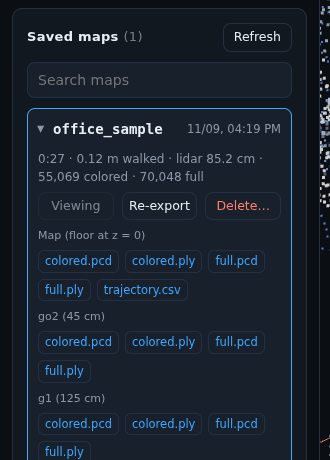
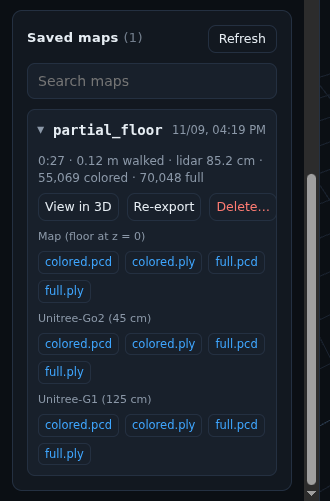
New web UI screenshots; fix the squashed saved-maps panel (#23)
* New web UI screenshots; keep the saved-maps panel from being squashed

The screenshots show the current UI (auto-stop countdown, the non-default
height warning, robot downloads). The saved-maps card had flex: 1 in the
scrolling sidebar, so once the sidebar grew taller than the window it shrank
to its 160 px minimum and an expanded map's details spilled out below it; it
now fills spare height but never shrinks below its content.

* Screenshots: name the robot exports Unitree-Go2 and Unitree-G1

* Screenshots: neutral map names

diff --git a/rgb_lidar_fusion/web/style.css b/rgb_lidar_fusion/web/style.css
@@ -82,7 +82,7 @@ body {
   padding: 14px;
   display: flex; flex-direction: column; gap: 10px;
 }
-.card.grow { flex: 1; min-height: 160px; }
+.card.grow { flex: 1 0 auto; min-height: 160px; }   /* fill spare height, never squash the list */
 .card h2 { margin: 0; font-size: 13px; font-weight: 600; letter-spacing: .3px; }
 .card-head { display: flex; align-items: center; justify-content: space-between; }
 .hint { margin: 0; color: var(--muted); font-size: 12.5px; }

diff --git a/README.md b/README.md
@@ -167,13 +167,13 @@ To stop, press **Ctrl+C** in the launch terminal; a map that is still recording 
 | **Saved maps** | Collapsed list with a search box; click a map for its details, *View in 3D*, downloads (the map itself and each robot export) and *Delete* (type the map's name to confirm; not possible while that map is being recorded). `?map=<name>` links straight to one; add `&crop=x0,x1,y0,y1` (m) to share a cropped view. |
 
 <p align="center">
-  <img src="docs/images/webui_recording.png" alt="Web UI while recording: live colored map, lidar height 85 cm, robot exports go2 and g1" width="860">
+  <img src="docs/images/webui_recording.png" alt="Web UI while recording: live colored map, lidar height 155 cm, auto-stop countdown, robot exports Unitree-Go2 and Unitree-G1" width="860">
 </p>
 
 <table>
   <tr>
-    <td width="68%"><img src="docs/images/webui_start_dialog.png" alt="Start recording dialog: map name, lidar height, color distance 10 m, auto-stop after 300 s, robot exports go2 and g1"></td>
-    <td width="32%"><img src="docs/images/webui_saved_maps_list.png" alt="Saved maps list: details, Re-export, Delete, downloads for the map, go2 and g1"></td>
+    <td width="68%"><img src="docs/images/webui_start_dialog.png" alt="Start recording dialog: map name, lidar height 155 cm flagged as not the default, color distance 10 m, auto-stop after 900 s, robot exports Unitree-Go2 and Unitree-G1"></td>
+    <td width="32%"><img src="docs/images/webui_saved_maps_list.png" alt="Saved maps list: details, Re-export, Delete, downloads for the map, Unitree-Go2 and Unitree-G1"></td>
   </tr>
   <tr>
     <td align="center"><sub>Start confirms the name, lidar height, color distance, auto-stop and robot exports, then counts down 15 s</sub></td>
